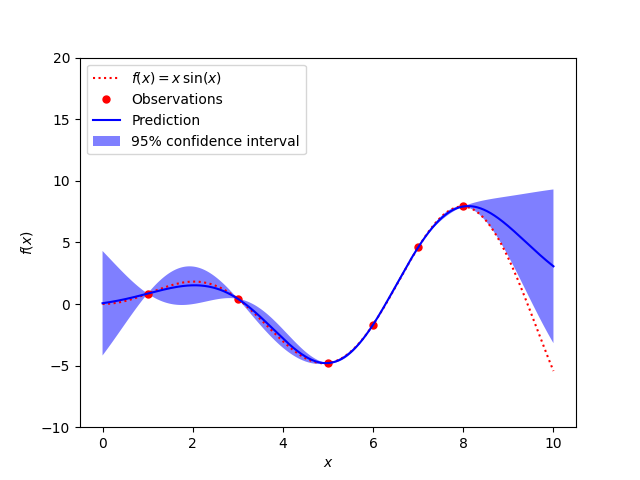
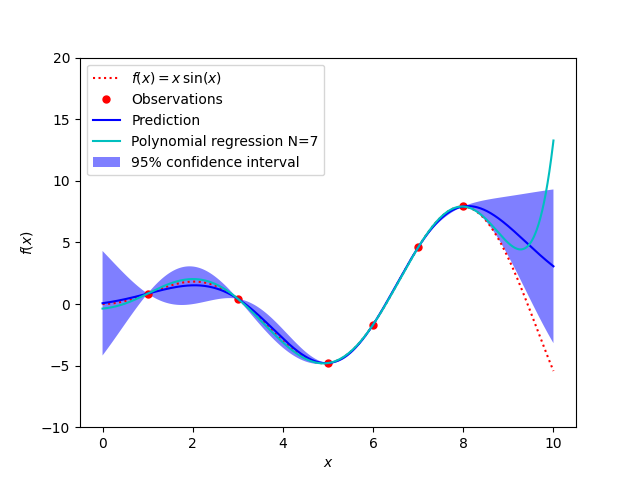
Refactoring

diff --git a/regression.py b/regression.py
@@ -3,6 +3,8 @@ from matplotlib import pyplot as plt
 
 from sklearn.gaussian_process import GaussianProcessRegressor
 from sklearn.gaussian_process.kernels import RBF, ConstantKernel as C
+from sklearn.linear_model import LinearRegression
+from sklearn.preprocessing import PolynomialFeatures
 
 np.random.seed(1)
 
@@ -14,7 +16,7 @@ def f(x):
 
 # ============================================= GAUSSIAN KERNELS =======================================================
 kernel = C(1.0, (1e-3, 1e3)) * RBF(10, (1e-2, 1e2))
-
+poly_degree = 7
 # ============================================== WITHOUT NOISE =========================================================
 X = np.reshape([1., 3., 5., 6., 7., 8.], (1, -1)).T
 y = f(X).reshape(-1)
@@ -24,6 +26,13 @@ gp.fit(X, y)
 
 x = np.reshape(np.linspace(0, 10, 1000), (1, -1)).T
 y_pred, sigma = gp.predict(x, return_std=True)
+
+poly = PolynomialFeatures(poly_degree)
+X_transform = poly.fit_transform(np.reshape(X, (-1, 1)).astype(np.float32))
+lm = LinearRegression()
+lm.fit(X_transform,  np.reshape(y, (-1, 1)).astype(np.float32))
+X_test_transform = poly.fit_transform(np.reshape(x, (-1, 1)))
+y_pred_linear = lm.predict(X_test_transform)
 
 # ============================================== PLOT RESULTS ==========================================================
 plt.figure()
@@ -36,6 +45,7 @@ plt.fill(np.concatenate([x, x[::-1]]),
          alpha=.5, fc='b', ec='None', label='95% confidence interval')
 plt.xlabel('$x$')
 plt.ylabel('$f(x)$')
+plt.plot(x, y_pred_linear, 'c', label='Polynomial regression N={}'.format(poly_degree))
 plt.ylim(-10, 20)
 plt.legend(loc='upper left')
 
@@ -50,6 +60,14 @@ gp.fit(X, y)
 
 y_pred, sigma = gp.predict(x, return_std=True)
 
+
+poly = PolynomialFeatures(poly_degree)
+X_transform = poly.fit_transform(np.reshape(X, (-1, 1)).astype(np.float32))
+lm = LinearRegression()
+lm.fit(X_transform,  np.reshape(y, (-1, 1)).astype(np.float32))
+X_test_transform = poly.fit_transform(np.reshape(x, (-1, 1)))
+y_pred_linear = lm.predict(X_test_transform)
+
 # ============================================== PLOT RESULTS ==========================================================
 plt.figure()
 plt.plot(x, f(x), 'r:', label=r'$f(x) = x\,\sin(x)$')
@@ -61,6 +79,7 @@ plt.fill(np.concatenate([x, x[::-1]]),
          alpha=.5, fc='b', ec='None', label='95% confidence interval')
 plt.xlabel('$x$')
 plt.ylabel('$f(x)$')
+plt.plot(x, y_pred_linear, 'c', label='Polynomial regression N={}'.format(poly_degree))
 plt.ylim(-10, 20)
 plt.legend(loc='upper left')
 plt.show()
